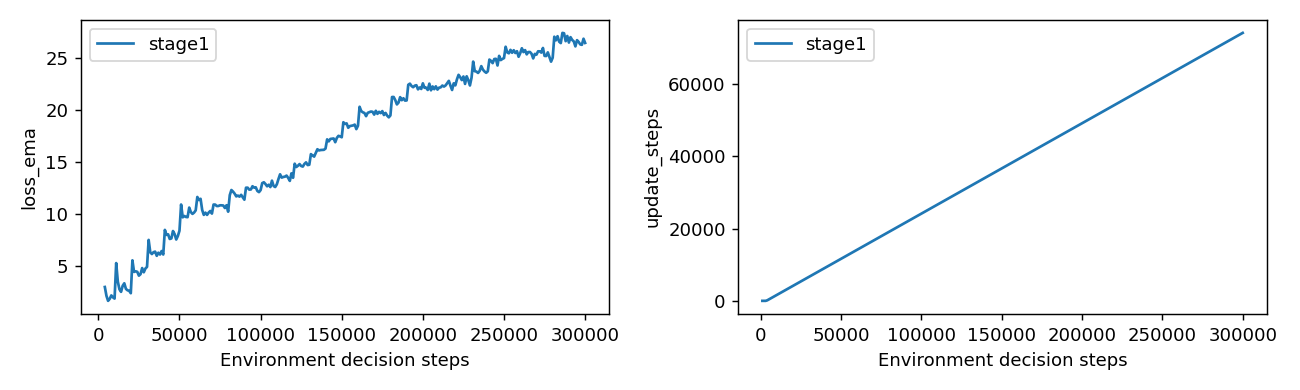
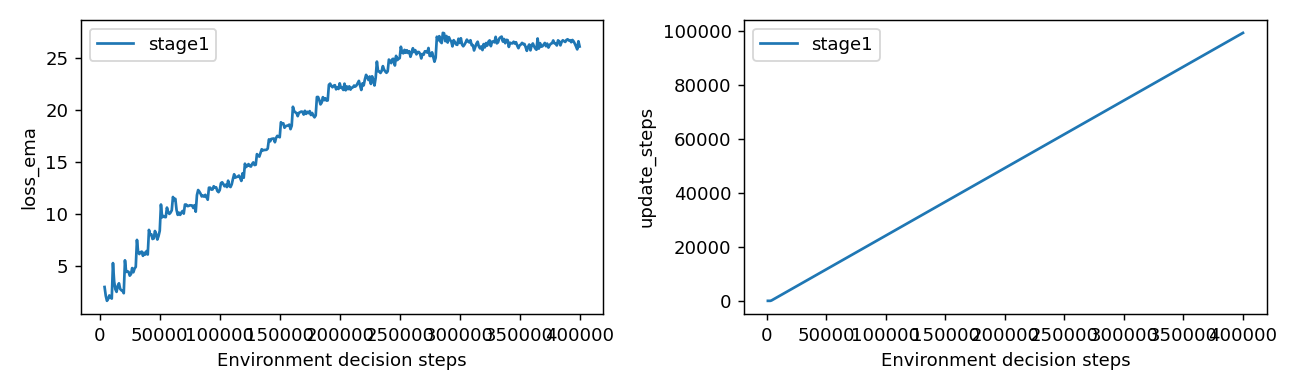
artifact: Z support full curriculum stage1-snapshot-4 status

diff --git a/docs/experiments/z_support_full3stage_20261017/Z_SUPPORT_STAGE1_RESULT_ZH.md b/docs/experiments/z_support_full3stage_20261017/Z_SUPPORT_STAGE1_RESULT_ZH.md
@@ -3,7 +3,7 @@
 状态：**训练中**。未完成任务保留待完成状态，不把预算或运行中状态当作结果。
 
 规模：4 Pursuers / 1 Evaders / 1 Obstacles。预算：2,000,000 environment decision steps。
-已持久化进度：300,000环境决策；74,137次optimizer更新；422个episode。三者独立计数。
+已持久化进度：400,000环境决策；99,137次optimizer更新；552个episode。三者独立计数。
 
 初始化：scratch随机初始化，禁止历史或pilot权重。
 配置：`/home/yjq/rl/CoCap1/iqn-z-guided-support-full3stage-20261017-runtime/stages/stage1/resolved.yaml`；训练日志：`/home/yjq/rl/CoCap1/iqn-z-guided-support-full3stage-20261017-runtime/stages/stage1/training`。

diff --git a/docs/experiments/z_support_full3stage_20261017/Z_SUPPORT_EXECUTION_SUMMARY_ZH.md b/docs/experiments/z_support_full3stage_20261017/Z_SUPPORT_EXECUTION_SUMMARY_ZH.md
@@ -2,13 +2,13 @@
 
 当前状态：running，training。
 
-- stage1：训练中；300,000环境决策，74,137次更新，422局。
+- stage1：训练中；400,000环境决策，99,137次更新，552局。
 - stage2：等待课程交接；0环境决策，0次更新，0局。
 - stage3：等待课程交接；0环境决策，0次更新，0局。
 
 监督器PID：3586027；训练PID：3586100；物理GPU：0。
 
-stage1吞吐/ETA：25.53867479575462 decisions/s；66565.70921699207秒。
+stage1吞吐/ETA：25.19290309865083 decisions/s；63509.94936656952秒。
 
 下一检查点：当前阶段的下一个100k模型快照；本地每1000决策进度刷新，监督器每20秒导出状态。
 
